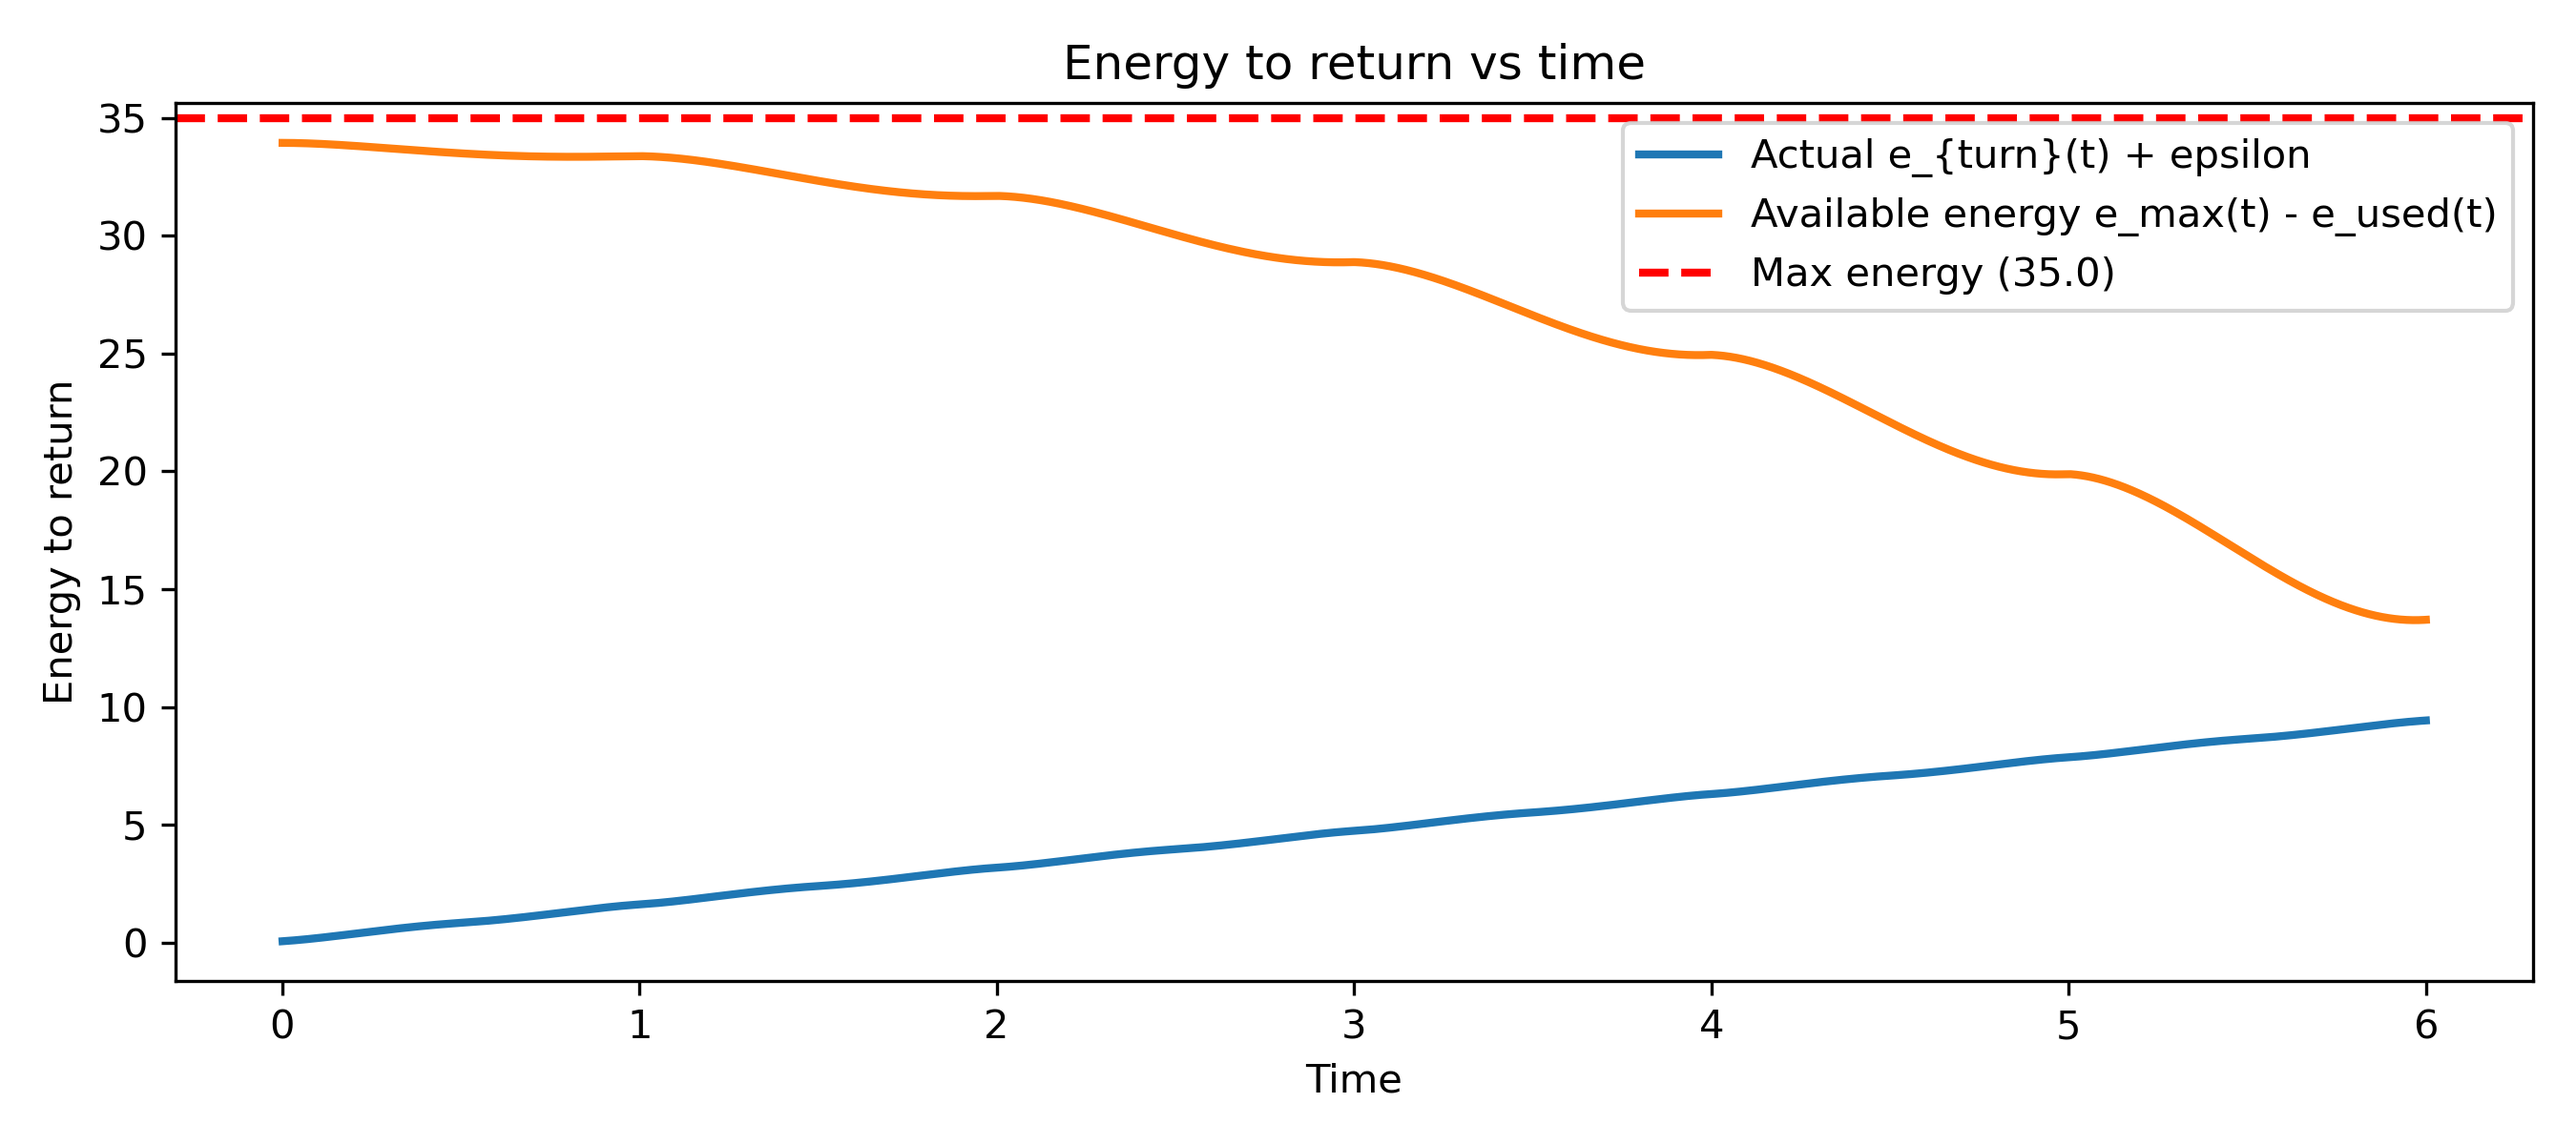
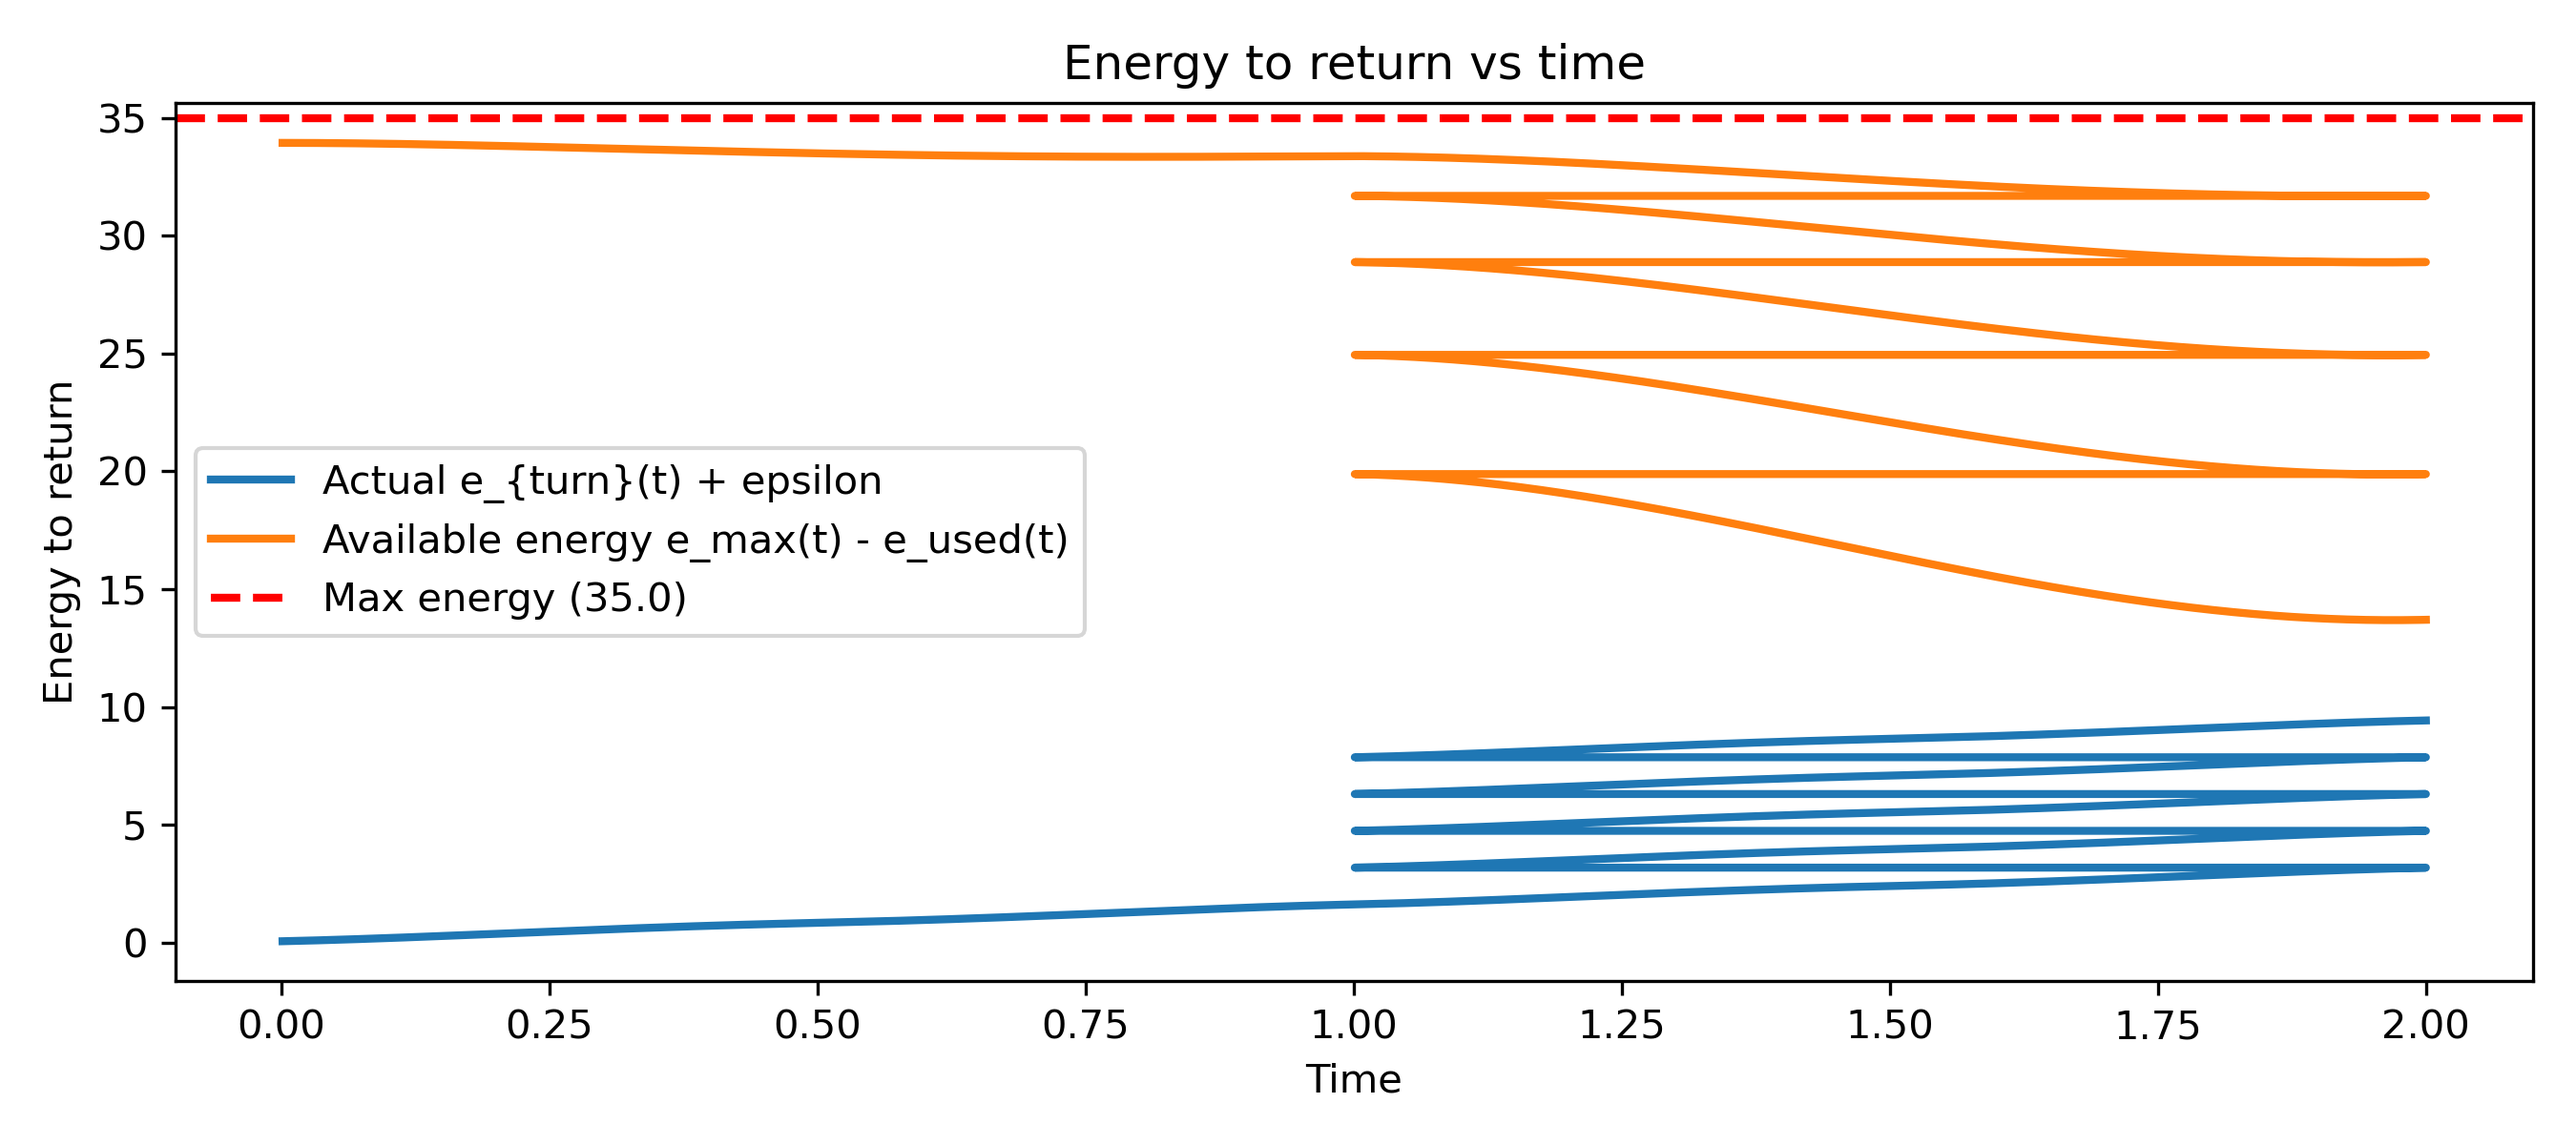
working code

diff --git a/adaptive_bisection.py b/adaptive_bisection.py
@@ -37,7 +37,7 @@ unfinished things:
 
 
 import math
-#import numpy as np <- replace math with this in a bit
+import numpy as np
 from pathlib import Path
 from search_figure import simulate_search_vector
 #^ this function takes in an angle (make sure this is consistent either degrees or radians)
@@ -56,6 +56,7 @@ def angle_calc(pointA, pointB):
         adist += 2*math.pi
     return adist
 
+
 """Finds the point we will plug into linear_search"""
 def angular_bisection(adist, pointA, max_dist_rad):
     x1, y1 = pointA
@@ -68,6 +69,7 @@ def angular_bisection(adist, pointA, max_dist_rad):
     #get actual midpoint (trig double check later)
     x_mid = max_dist_rad * math.cos(a_mid)
     y_mid = max_dist_rad * math.sin(a_mid)
+    print("Current angle: ", a_mid)
     
     return a_mid, (x_mid,y_mid)
 
@@ -85,7 +87,7 @@ def sort_list(list_p):
     return list_p
 
 """Run the adaptive angular bisection until success"""
-def adaptive_model(max_dist_rad, rad_search, point_list = None, max_arclength= None): 
+def adaptive_model(params, rad_search, max_dist_rad = None, point_list = None, max_arclength= None, n = None): 
     #point_list will need to be empty in the first step of recursion and first step only
     #max_arclength is updated each recursive iteration to be the maximum arclength along the circumference
     #max_dist_rad is the maximum distance our drone can travel
@@ -95,19 +97,36 @@ def adaptive_model(max_dist_rad, rad_search, point_list = None, max_arclength= N
     #base cases
     if point_list is None:
         point_list = []
-        point_list.append((max_dist_rad, 0.0)) #in list write starting point aka point at angle 0
         #use lsm on 0 degree of unit circle
-        simulate_search_vector(0)
-        return adaptive_model(max_dist_rad, rad_search, point_list, 2*math.pi*max_dist_rad)
+        target_maybe = simulate_search_vector(0, params)
+        print("Linear search count: 1")
+        if target_maybe[6] == True:
+            return target_maybe
+        
+
+        #calculate max_dist_rad from linear search results
+        full_trajectory = target_maybe[0]
+        r = np.hypot(full_trajectory[:,0] - params.X0, full_trajectory[:,1] - params.Y0)
+        max_dist_rad = np.max(r)
+        print(max_dist_rad)
+
+        point_list.append((max_dist_rad, 0.0)) #in list write starting point aka point at angle 0
+        return adaptive_model(params, rad_search, max_dist_rad, point_list, 2*math.pi*max_dist_rad, 1)
     elif len(point_list) == 1:
         point_list.append((-1* max_dist_rad, 0.0))
-        simulate_search_vector(math.pi)
-        return adaptive_model(max_dist_rad, rad_search, point_list, max_dist_rad*math.pi)
+        target_maybe = simulate_search_vector(math.pi, params)
+        print("Linear Search count: 2")
+        if target_maybe[6] == True:
+            #print(target_maybe)
+            return target_maybe
+        return adaptive_model(params, rad_search, max_dist_rad, point_list, max_dist_rad*math.pi, 2)
 
     #recursive case
     #if we still have space on the circumference wil trigger
     #tol = 2 * R *sin(r/R)
     elif max_arclength > 2*max_dist_rad *math.asin(rad_search/max_dist_rad):
+        n += 1
+        print("Linear search count: ", n)
         max_adist = 0
         for i in range(len(point_list)):
         #we are going to pull two points
@@ -118,9 +137,10 @@ def adaptive_model(max_dist_rad, rad_search, point_list = None, max_arclength= N
                 j = 0
             B = point_list[j]
             curr_adist = angle_calc(A, B)
-            if curr_adist > max_adist:
+            if curr_adist > max_adist + 1e-12: #order debugging tol
                 max_adist = curr_adist
                 A_keep = A
+
 
         #in the case of max_adist == curr_adist, we can choose to do nothing since
         #max_adist comes from an earlier set of points than curr_adist, and we want
@@ -129,9 +149,9 @@ def adaptive_model(max_dist_rad, rad_search, point_list = None, max_arclength= N
         #after we add the above, we search the max adist
         next_search = angular_bisection(max_adist, A_keep, max_dist_rad)
         #call ssv for the wanted vector
-        target_maybe = simulate_search_vector(next_search[0]) #use next_search results in parameters
+        target_maybe = simulate_search_vector(next_search[0], params) #use next_search results in parameters
         if target_maybe[6] == True:
-            print(target_maybe)
+            #print(target_maybe)
             return target_maybe
         point_list.append(next_search[1]) 
         sort_list(point_list)
@@ -141,13 +161,10 @@ def adaptive_model(max_dist_rad, rad_search, point_list = None, max_arclength= N
         new_max_al = max_dist_rad*max_adist
 
         #recursively iterate
-        return adaptive_model(max_dist_rad, rad_search, point_list, new_max_al)
+        return adaptive_model(params, rad_search, max_dist_rad,  point_list, new_max_al, n)
 
     else:
         print("No target point within maximum searching range")
     return
 
-#just for quick debugging purposes delte later
-if __name__ == "__main__":
-    adaptive_model(700, 5)
 

diff --git a/main.py b/main.py
@@ -37,6 +37,8 @@ from plotting import (
     plot_speed_vs_time,
 )
 
+from adaptive_bisection import adaptive_model
+
 
 # -----------------------------------------------------------------------------
 # Paths
@@ -50,7 +52,7 @@ def main():
         X0 = 0.0,
         Y0 = 0.0,
         XL = 3.1,
-        YL = 0.1,
+        YL = -0.5,
         R_SCAN = 0.25,
         T = 1.0,
         M = 1.0,
@@ -60,28 +62,36 @@ def main():
         DT = 1e-3,
         EPS = 5e-2,
     )
-    print("Simulations for the 5 fixed angle search directions\n")
-    results = []
-    angles = [0]
-    for angle in angles:
-        print(f"Direction {angle}")
-        full_trajectory, full_times, full_e_used_track, full_e_turn_track, full_e_turn_times, turned, located, turn_index, stopped_index, scan_indices = simulate_search_vector(angle, params)
-        x = full_trajectory[:,0]
-        print(x)
-        y = full_trajectory[:,1]
-        vx_traj = full_trajectory[:,2]
-        vy_traj = full_trajectory[:,3]
-        speed = np.hypot(vx_traj, vy_traj)
-        e_traj = full_trajectory[:,4]
-        print(full_times)
-        for i, idx in enumerate(scan_indices):
-            print(f"State before scan {i+1}: {full_trajectory[idx-1]}")
-            print(f"State after scan {i+1}: {full_trajectory[idx]}")
-        expected_e_turn = expected_return_energy(full_e_turn_times, params.EH, params.TS, params.T, params.M, params.X0, params.Y0, params.XL, params.YL)
-        plot_trajectory_parametric(x, y, params.X0, params.Y0, params.XL, params.YL, params.R_SCAN, turn_index, stopped_index, turned, located)
-        plot_speed_vs_time(full_times, speed, turn_index, stopped_index, turned)
-        plot_energy_to_return(
-        full_e_turn_times, full_e_turn_track + params.EPS, expected_e_turn + params.EPS, params.E_MAX - full_e_used_track, params.E_MAX)
+    #for reference for a point, with our current drone parameters, our maximum travel distance is around 3.2
+    #math.sqrt((params.XL - params.x0)**2+(params.YL-params.X0)**2)
+
+    #main search function
+    print("Running our search algorithm")
+    adaptive_model(params, rad_search=params.R_SCAN, max_dist_rad = None, point_list = None, max_arclength= None)
+    print("Finished our Search Algorithm")
+
+    #print("Simulations for the 5 fixed angle search directions\n")
+    #results = []
+    #angles = [0]
+    #for angle in angles:
+        #print(f"Direction {angle}")
+        #full_trajectory, full_times, full_e_used_track, full_e_turn_track, full_e_turn_times, turned, located, turn_index, stopped_index, scan_indices = simulate_search_vector(angle, params)
+        #x = full_trajectory[:,0]
+        #print(x)
+        #y = full_trajectory[:,1]
+        #vx_traj = full_trajectory[:,2]
+        #vy_traj = full_trajectory[:,3]
+        #speed = np.hypot(vx_traj, vy_traj)
+        #e_traj = full_trajectory[:,4]
+        #print(full_times)
+        #for i, idx in enumerate(scan_indices):
+            #print(f"State before scan {i+1}: {full_trajectory[idx-1]}")
+            #print(f"State after scan {i+1}: {full_trajectory[idx]}")
+        #expected_e_turn = expected_return_energy(full_e_turn_times, params.EH, params.TS, params.T, params.M, params.X0, params.Y0, params.XL, params.YL)
+        #plot_trajectory_parametric(x, y, params.X0, params.Y0, params.XL, params.YL, params.R_SCAN, turn_index, stopped_index, turned, located)
+        #plot_speed_vs_time(full_times, speed, turn_index, stopped_index, turned)
+        #plot_energy_to_return(
+        #full_e_turn_times, full_e_turn_track + params.EPS, expected_e_turn + params.EPS, params.E_MAX - full_e_used_track, params.E_MAX)
 
 if __name__ == "__main__":
     main()
